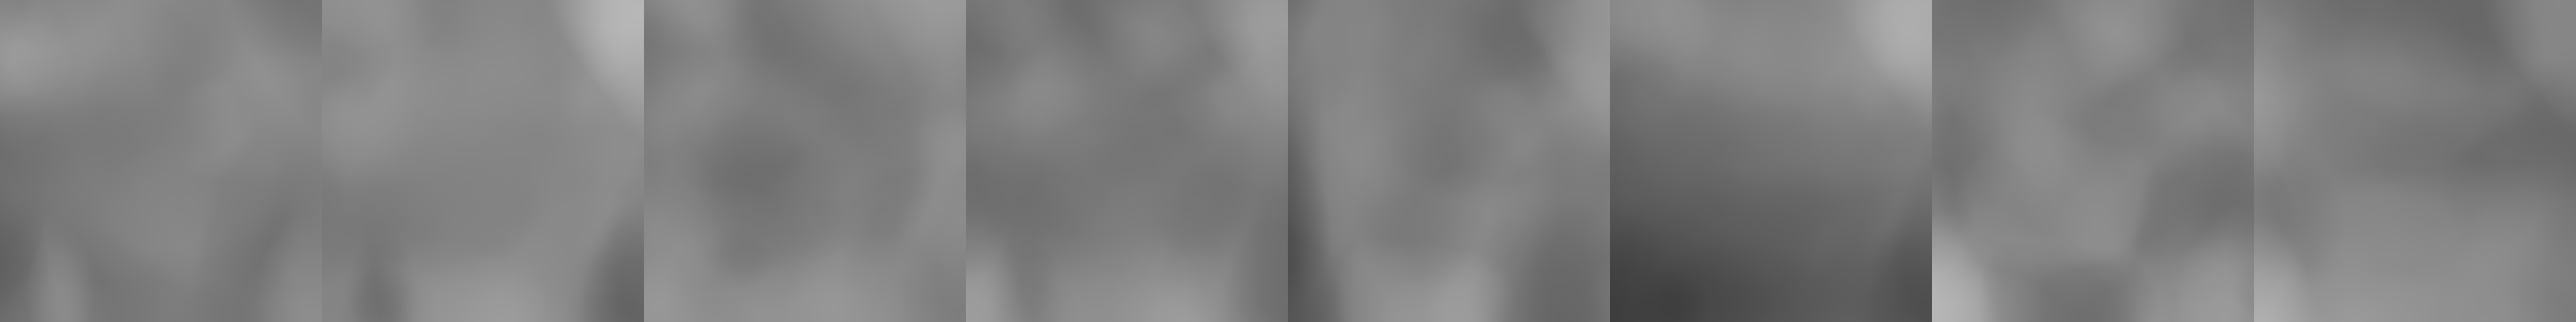
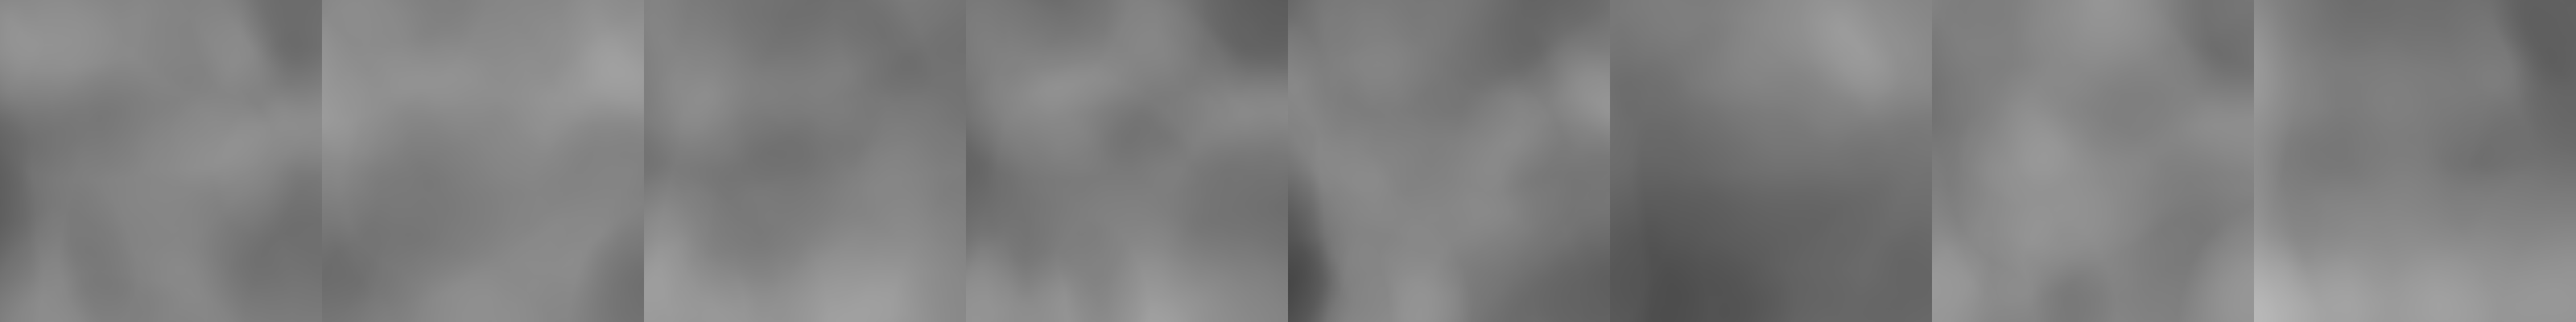
Change mpi data for mobile viewer. (process_mobile.py)

diff --git a/mpi/tiger-front/mobile/config.js b/mpi/tiger-front/mobile/config.js
@@ -16,8 +16,8 @@
   const px = 334.78532562016807 * scale;
   const invz = false;
 
-  const offset = 200;
-  const maxcol = 3;
+  const offset = 128;
+  const maxcol = 4;
   const version = "learned_basis8";
   const extrinsics = [[0.9997125864028931,0.011174699291586876,0.021207239478826523,0.0,-0.01122159045189619,0.9999347925186157,0.002093249000608921,0.0,-0.02118246629834175,-0.002330626593902707,0.9997729063034058,0.0,-0.20847119390964508,0.08096588402986526,0.018859874457120895,1.0]];
 
